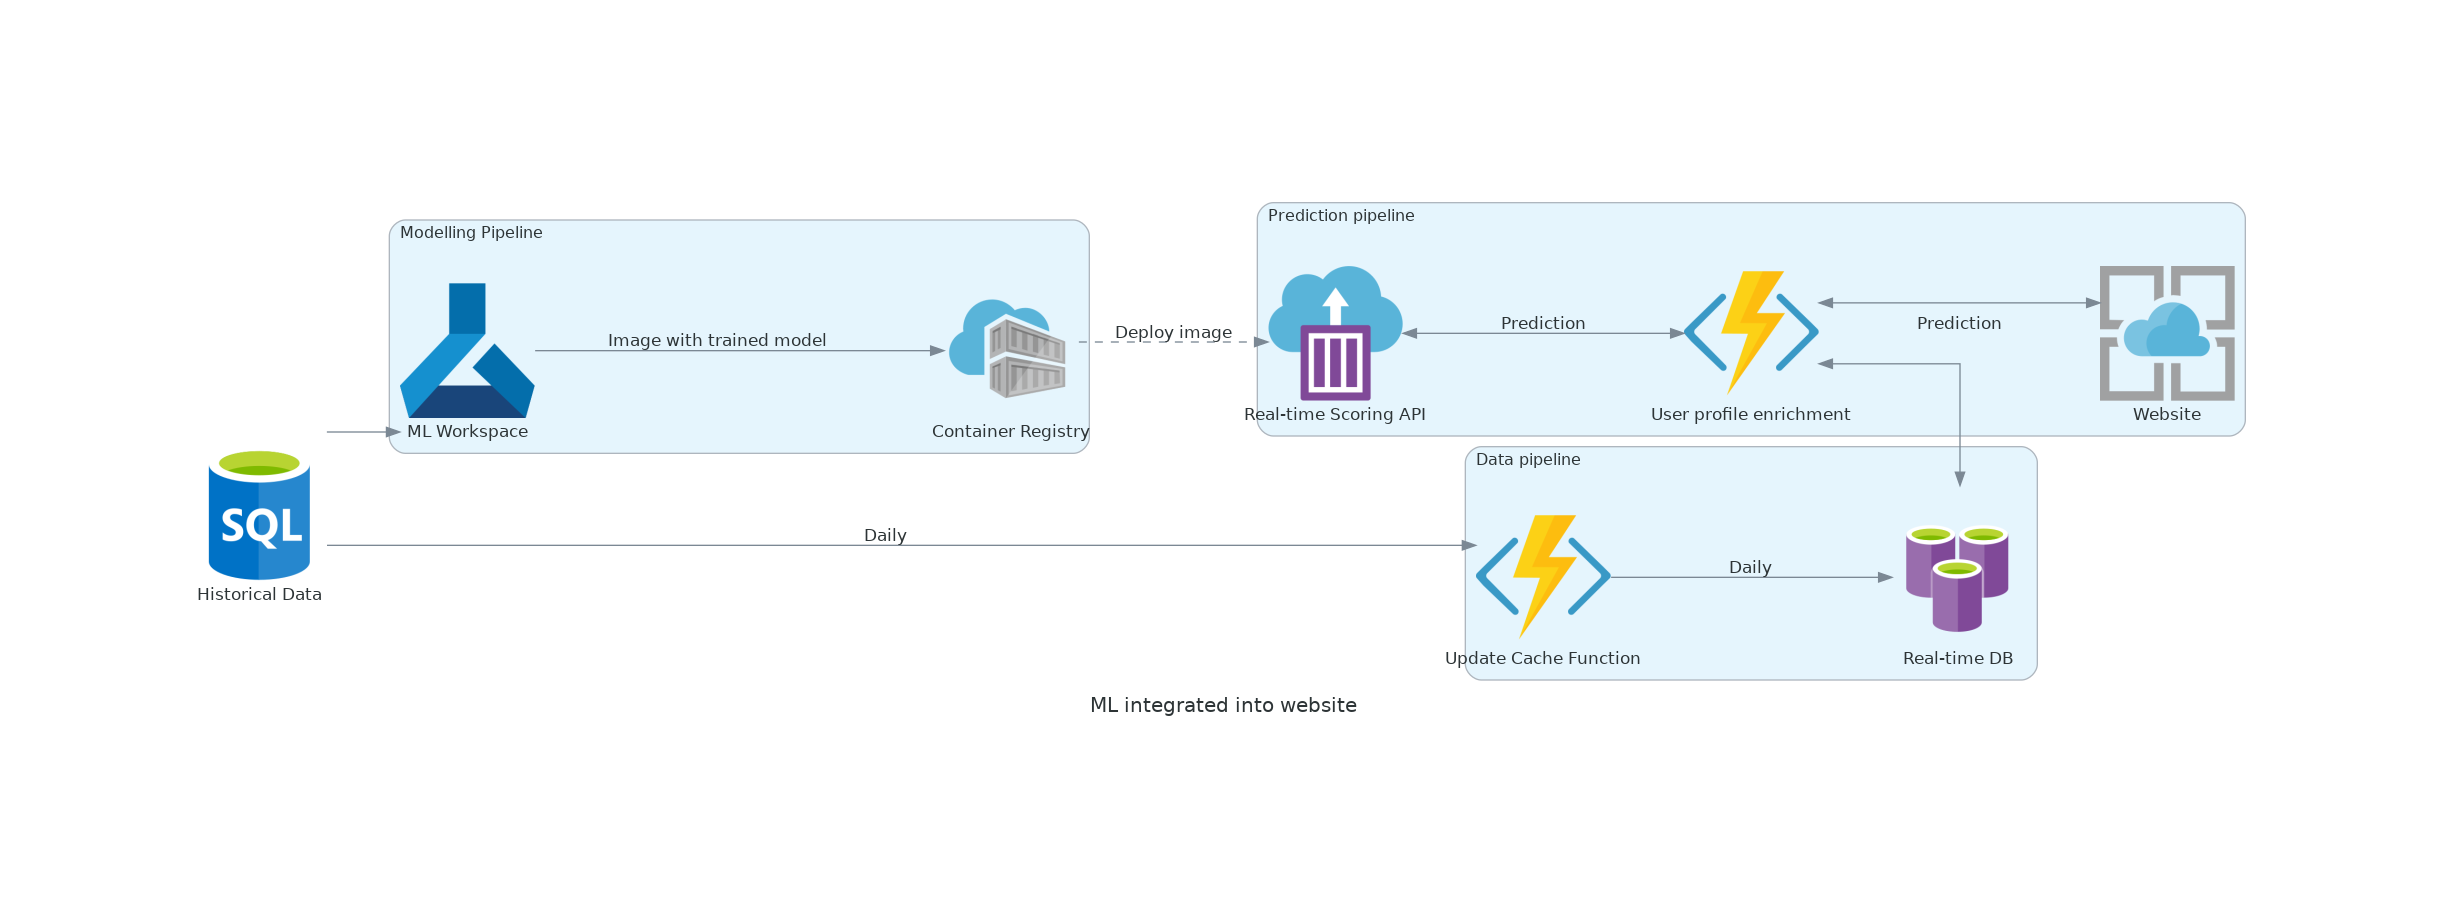
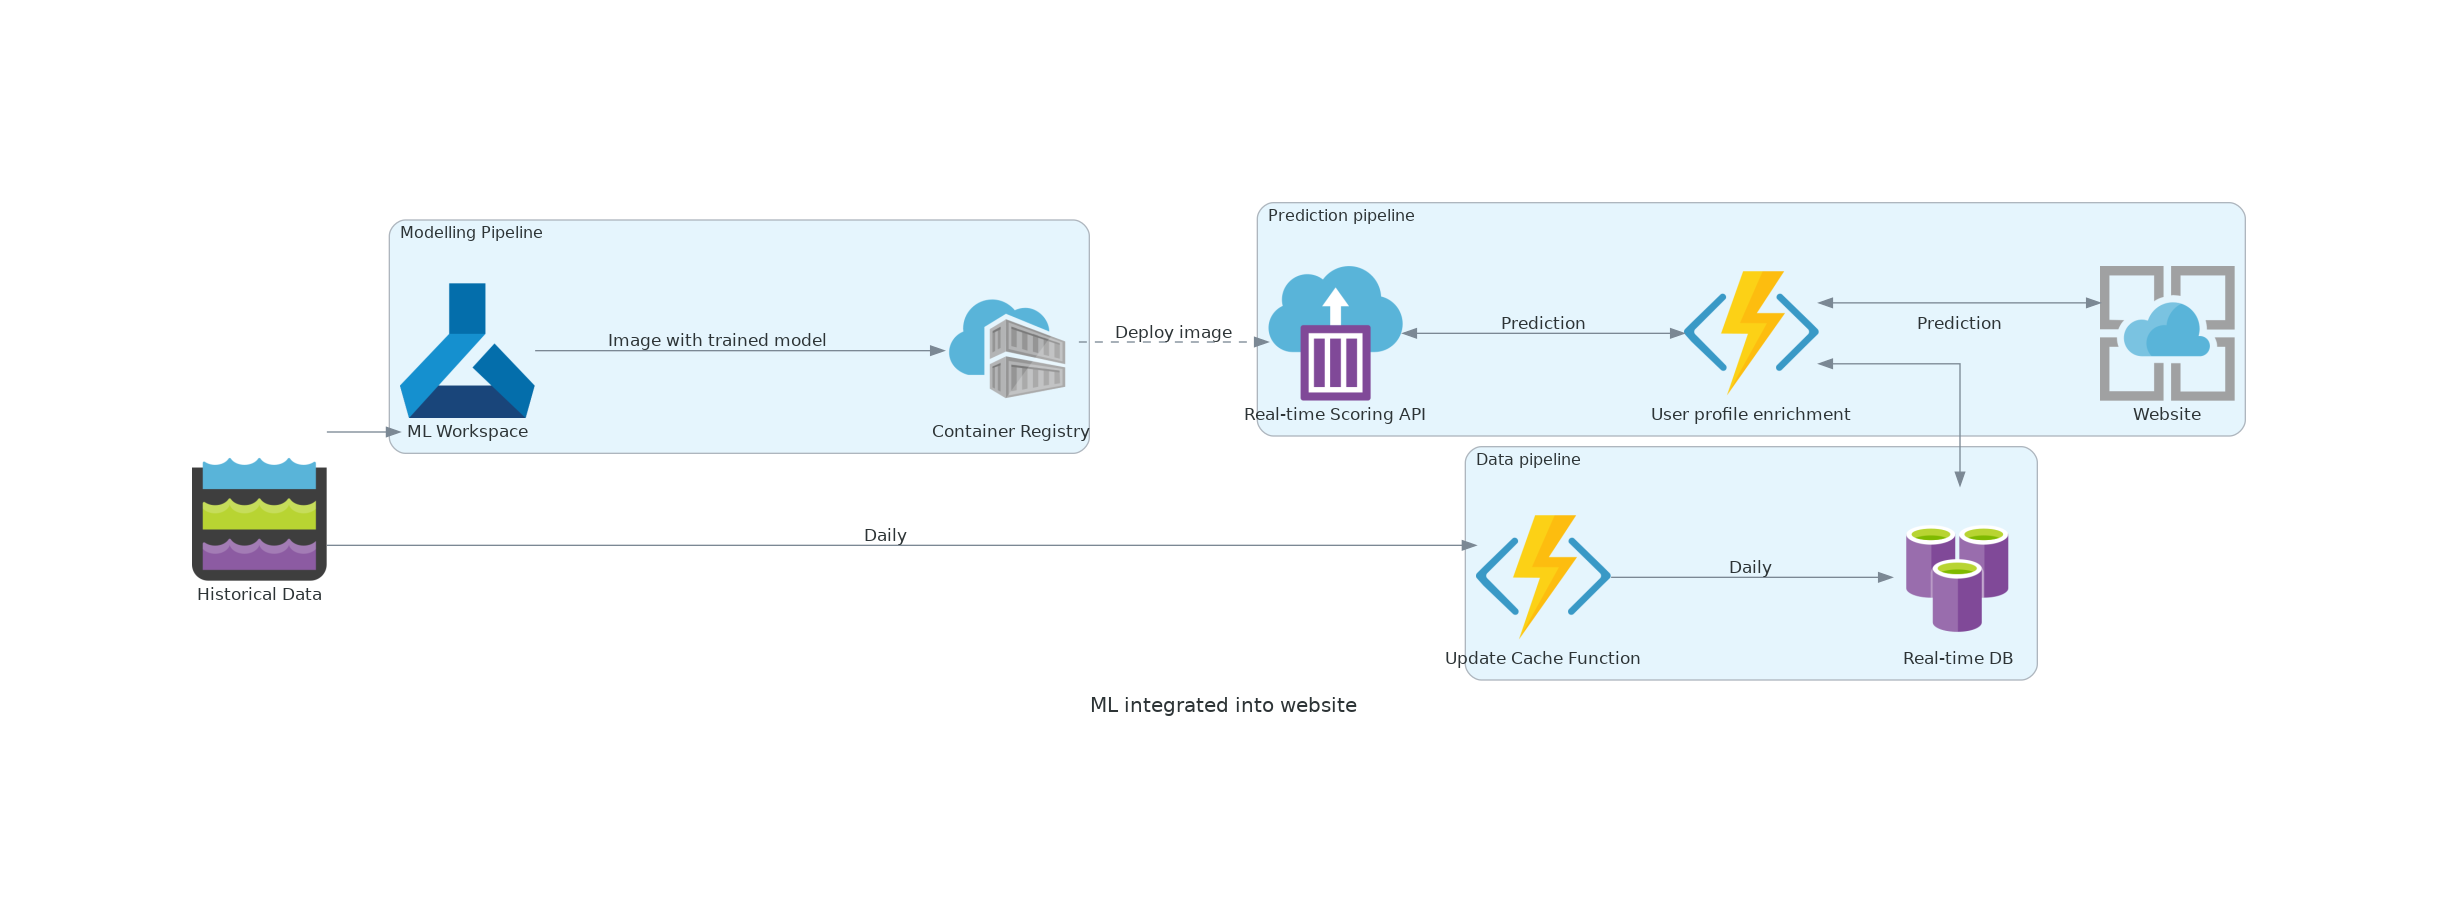
using storage

Changed region(s): [[0.0621, 0.4891, 0.1552, 0.6419]]

diff --git a/diagram.py b/diagram.py
@@ -6,7 +6,7 @@ from diagrams.azure.database import CacheForRedis, SQLDatabases
 from diagrams.azure.ml import MachineLearningServiceWorkspaces
 
 with Diagram("ML integrated into website", show=False, curvestyle="ortho"):
-    storage = SQLDatabases("Historical Data")
+    storage = DataLakeStorage("Historical Data")
 
     with Cluster("Modelling Pipeline"):
         ml_ws = MachineLearningServiceWorkspaces("ML Workspace")
